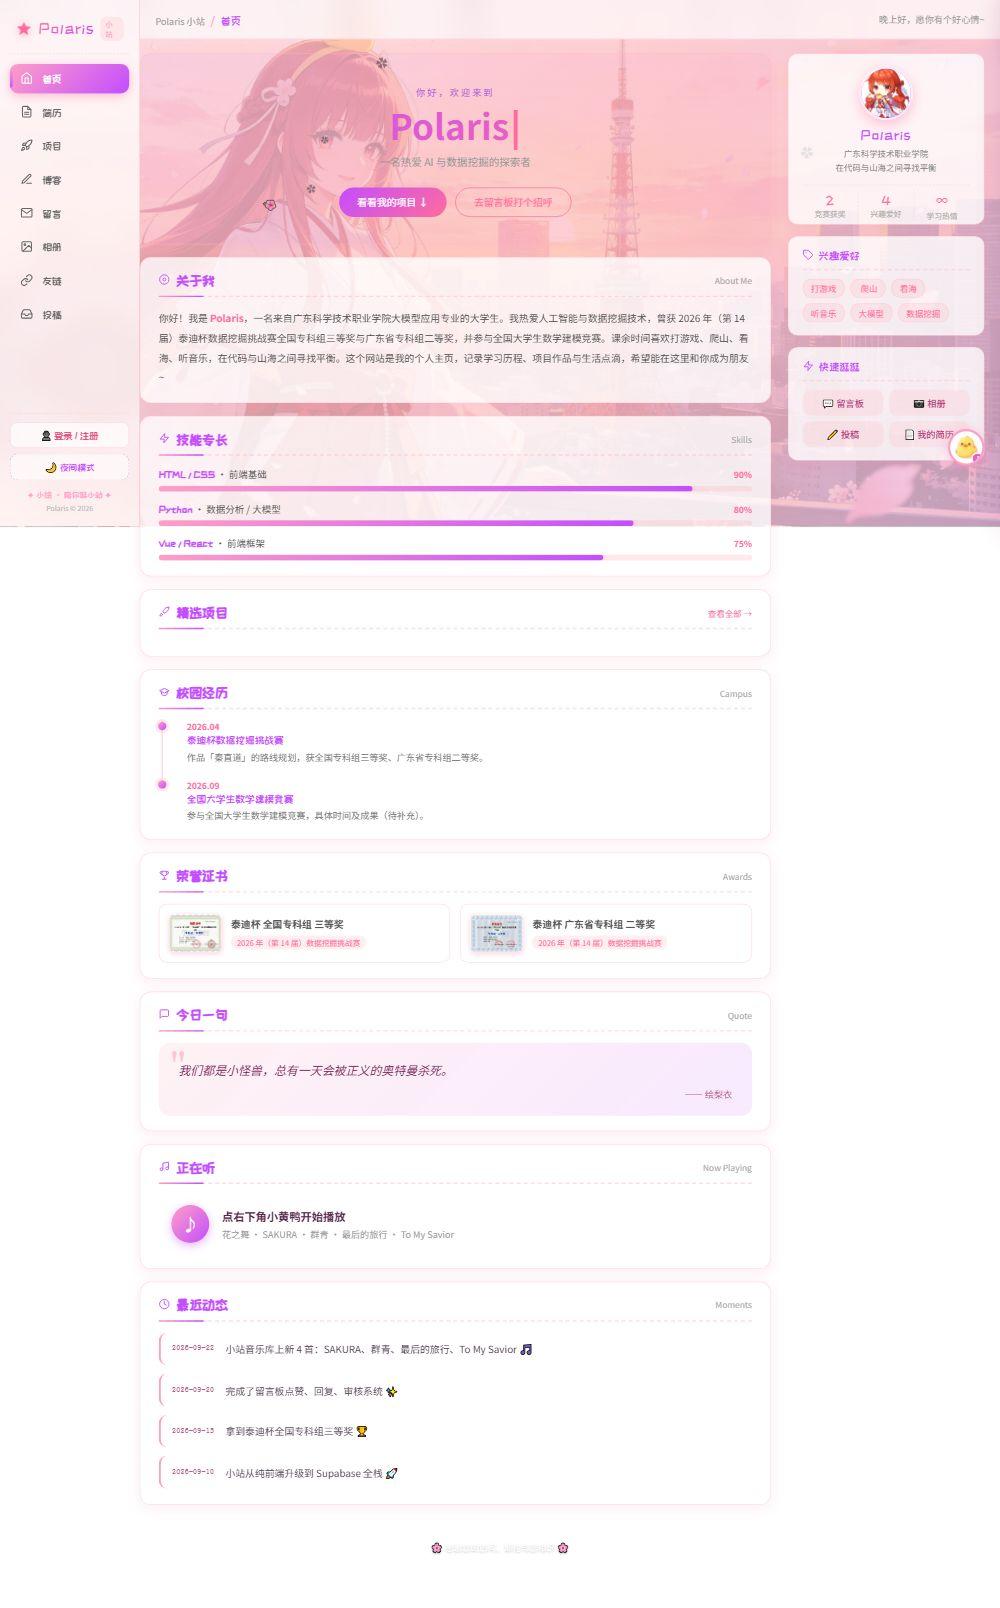
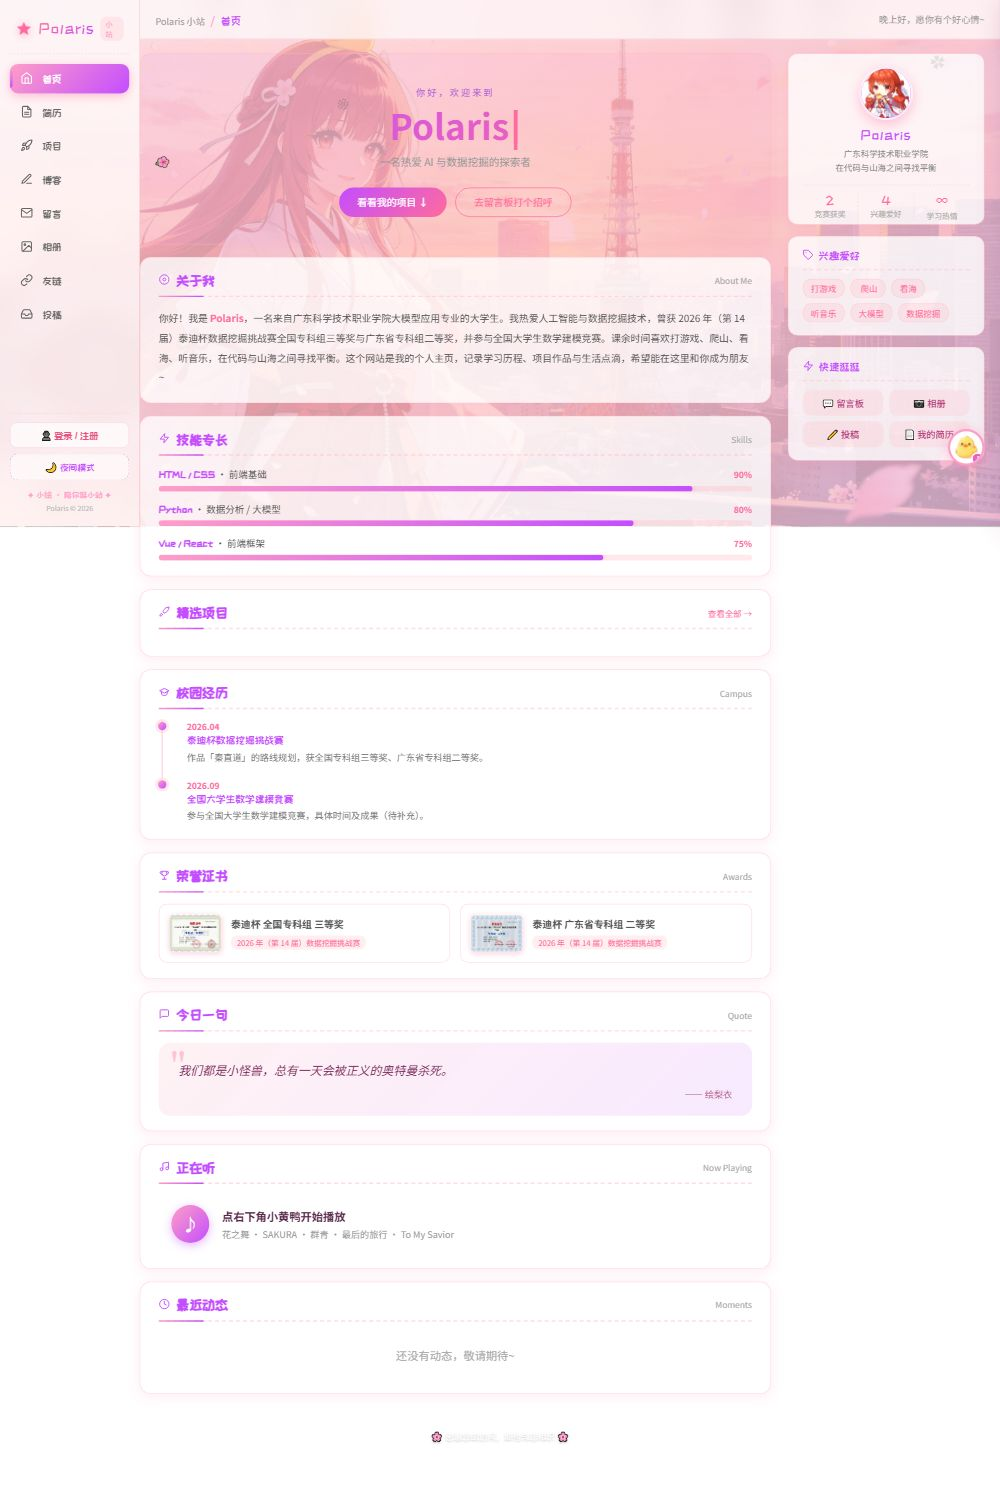
feat: 最近动态可在内容管理增删改

diff --git a/index.html b/index.html
@@ -767,6 +767,7 @@ body.dark ::placeholder{color:#888;}
             <button type="button" class="admin-tab" data-tab="data">数据</button>
             <button type="button" class="admin-tab" data-tab="music">音乐</button>
             <button type="button" class="admin-tab" data-tab="album">相册</button>
+            <button type="button" class="admin-tab" data-tab="moments">动态</button>
         </div>
         <div class="admin-body">
             <!-- 基础 -->
@@ -921,6 +922,21 @@ body.dark ::placeholder{color:#888;}
                     </div>
                     <button type="button" class="af-add" id="alCreate">＋ 创建相册</button>
                     <div id="alManage" style="margin-top:16px;"></div>
+                </div>
+            </div>
+
+            <div class="admin-tabpage" data-page="moments" style="display:none;">
+                <div class="af-section">
+                    <div class="af-title">发一条新动态</div>
+                    <div class="af-grid">
+                        <div class="af-field"><label>日期</label><input id="mo_date" class="af-input" placeholder="2026-09-22"></div>
+                        <div class="af-field" style="grid-column:1/-1;"><label>内容</label><input id="mo_content" class="af-input" placeholder="今天完成了..."></div>
+                    </div>
+                    <button type="button" class="af-add" id="moAdd">＋ 发布动态</button>
+                </div>
+                <div class="af-section">
+                    <div class="af-title">已发布的动态</div>
+                    <div id="moList"></div>
                 </div>
             </div>
         </div>
@@ -2585,18 +2601,20 @@ body.dark ::placeholder{color:#888;}
     audio.addEventListener('pause', function(){ npD.classList.remove('spin'); });
   }
 
-  // 最近动态
-  var MOMENTS=[
-    ['2026-09-22','小站音乐库上新 4 首：SAKURA、群青、最后的旅行、To My Savior 🎵'],
-    ['2026-09-20','完成了留言板点赞、回复、审核系统 ✨'],
-    ['2026-09-15','拿到泰迪杯全国专科组三等奖 🏆'],
-    ['2026-09-10','小站从纯前端升级到 Supabase 全栈 🚀']
-  ];
+  // 最近动态：从数据库读
   var ml=document.getElementById('homeMoments');
   if(ml){
-    ml.innerHTML=MOMENTS.map(function(m){
-      return '<div class="moment-item"><div class="moment-date">'+m[0]+'</div><div class="moment-text">'+m[1]+'</div></div>';
-    }).join('');
+    window.PolarisCloud.call('list_moments').then(function(d){
+      if(d && d.ok && d.list && d.list.length){
+        ml.innerHTML=d.list.map(function(m){
+          return '<div class="moment-item"><div class="moment-date">'+m.date+'</div><div class="moment-text">'+m.content+'</div></div>';
+        }).join('');
+      } else {
+        ml.innerHTML='<div style="color:#aaa;text-align:center;padding:20px;">还没有动态，敬请期待~</div>';
+      }
+    }).catch(function(){
+      ml.innerHTML='<div style="color:#aaa;text-align:center;padding:20px;">动态加载失败</div>';
+    });
   }
 })();
 </script>

diff --git a/static/admin-panel.js b/static/admin-panel.js
@@ -167,3 +167,56 @@
     };
   }
 })();
+
+// ===== 最近动态管理 =====
+(function(){
+  function getPw(){ return localStorage.getItem('polaris_pw') || ''; }
+  function listMoments(){
+    var box=document.getElementById('moList');
+    if(!box) return;
+    box.innerHTML='<div style="color:#aaa;font-size:13px;">加载中...</div>';
+    window.PolarisCloud.call('list_moments').then(function(d){
+      if(!d.ok||!d.list||!d.list.length){ box.innerHTML='<div style="color:#aaa;font-size:13px;">还没有动态</div>'; return; }
+      box.innerHTML='';
+      d.list.forEach(function(m){
+        var row=document.createElement('div');
+        row.style.cssText='display:flex;align-items:flex-start;gap:10px;padding:10px;border:1px solid rgba(255,182,193,.4);border-radius:8px;margin-bottom:8px;';
+        row.innerHTML='<div style="flex:1;"><div style="font-size:11px;color:#b2608a;font-family:monospace;">'+m.date+'</div><div style="font-size:13px;color:#5a4a5a;margin-top:4px;line-height:1.5;">'+m.content+'</div></div>';
+        var del=document.createElement('button');
+        del.textContent='删除';
+        del.style.cssText='padding:4px 10px;font-size:12px;border:none;border-radius:6px;background:#ffe0e0;color:#e66;cursor:pointer;flex-shrink:0;';
+        del.onclick=function(){
+          customConfirm('确定删除这条动态吗？','删除动态').then(function(yes){
+            if(!yes) return;
+            window.PolarisCloud.call('delete_moment',{id:m.id,password:getPw()}).then(function(r){
+              if(r&&r.ok){ toast('已删除','success'); listMoments(); } else { toast('删除失败','error'); }
+            });
+          });
+        };
+        row.appendChild(del);
+        box.appendChild(row);
+      });
+    });
+  }
+  window.__listMoments=listMoments;
+  document.addEventListener('DOMContentLoaded',function(){
+    var add=document.getElementById('moAdd');
+    if(add){
+      add.onclick=function(){
+        var date=document.getElementById('mo_date').value.trim();
+        var content=document.getElementById('mo_content').value.trim();
+        if(!date||!content){ alert('请填日期和内容'); return; }
+        window.PolarisCloud.call('add_moment',{date:date,content:content,password:getPw()}).then(function(r){
+          if(r&&r.ok){ toast('已发布','success'); document.getElementById('mo_content').value=''; listMoments(); }
+          else { toast('发布失败','error'); }
+        });
+      };
+    }
+    // 切到动态 tab 时加载
+    document.querySelectorAll('.admin-tab').forEach(function(tab){
+      tab.addEventListener('click',function(){
+        if(tab.getAttribute('data-tab')==='moments') listMoments();
+      });
+    });
+  });
+})();

diff --git a/_supabase/functions/polaris-api/index.ts b/_supabase/functions/polaris-api/index.ts
@@ -442,6 +442,30 @@ async function handle(req) {
       if (error) return json({ ok: false, error: 'db' });
       return json({ ok: true });
     }
+    /* ===== 最近动态 ===== */
+    case 'list_moments': {
+      const { data, error } = await sb.from('moments').select('*').order('sort_order',{ascending:false}).order('date',{ascending:false});
+      if (error) return json({ ok: false, error: 'db' });
+      return json({ ok: true, list: data || [] });
+    }
+    case 'add_moment': {
+      const adm = await requireAdmin(sb, body);
+      if (!adm.ok) return json({ ok: false, error: 'auth' });
+      const { error } = await sb.from('moments').insert({
+        date: String(body.date || '').slice(0,20),
+        content: String(body.content || '').slice(0,500),
+        sort_order: Number(body.sort_order || 0),
+      });
+      if (error) return json({ ok: false, error: 'db' });
+      return json({ ok: true });
+    }
+    case 'delete_moment': {
+      const adm = await requireAdmin(sb, body);
+      if (!adm.ok) return json({ ok: false, error: 'auth' });
+      const { error } = await sb.from('moments').delete().eq('id', String(body.id || ''));
+      if (error) return json({ ok: false, error: 'db' });
+      return json({ ok: true });
+    }
     case 'upload_music_file': {
       const adm = await requireAdmin(sb, body);
       if (!adm.ok) return json({ ok: false, error: 'auth' });
